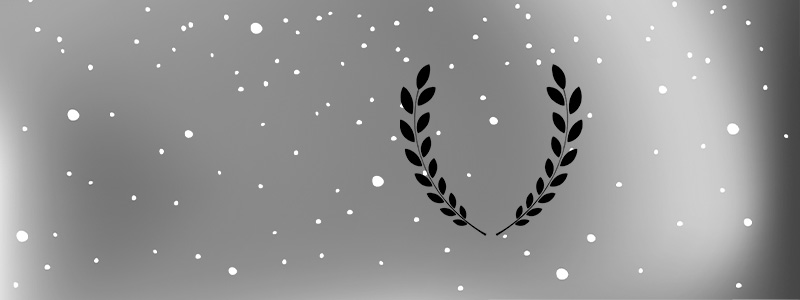
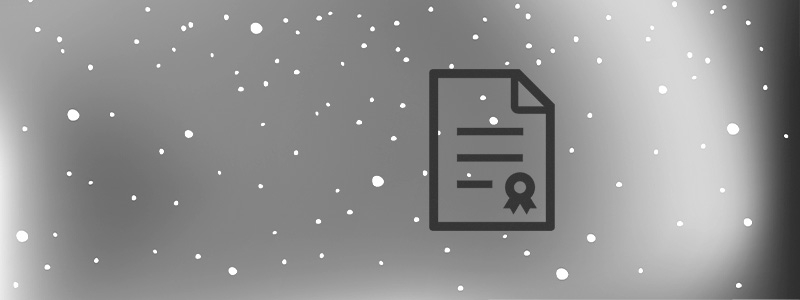
作ったもののサムネイルを変更

Changed region(s): [[0.5, 0.21, 0.75, 0.78]]

diff --git a/_site/index.html b/_site/index.html
@@ -119,7 +119,7 @@
             <article class="article">
                 <div class="article-top">
                     <div class="article-thumbnail" style="
-                background-image: url('assets/images/thumb1.png');
+                background-image: url('assets/images/creative.jpg');
               ">
                         <div class="article-title">
                             <a href="/posts/creative/">作ったもの</a>

diff --git a/_site/posts/creative/index.html b/_site/posts/creative/index.html
@@ -33,7 +33,7 @@
       <!--  -->
       
       <div class="article-thumbnail" style="
-            background-image: url('/assets/images/thumb1.png');
+            background-image: url('/assets/images/creative.jpg');
           ">
         <h1 class="article-title">作ったもの</h1>
         <div class="article-bottom">

diff --git a/all_collections/_posts/2022-08-22-creative.md b/all_collections/_posts/2022-08-22-creative.md
@@ -3,6 +3,6 @@ layout: post
 title: 作ったもの
 date: 2022-08-22 8:00:00
 categories: [プロフ, 技術]
-thumbnail: "assets/images/thumb1.png"
+thumbnail: "assets/images/creative.jpg"
 ---
 
